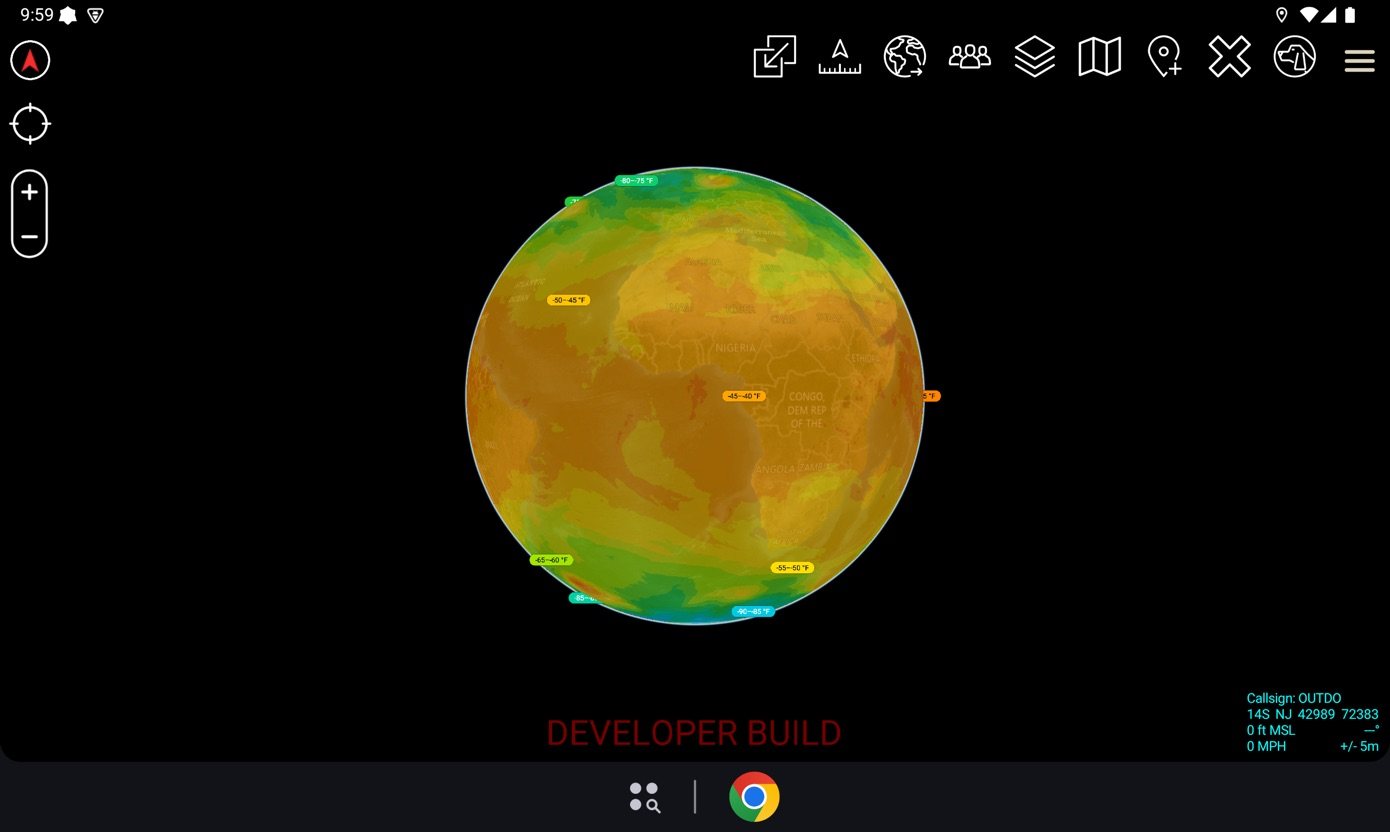
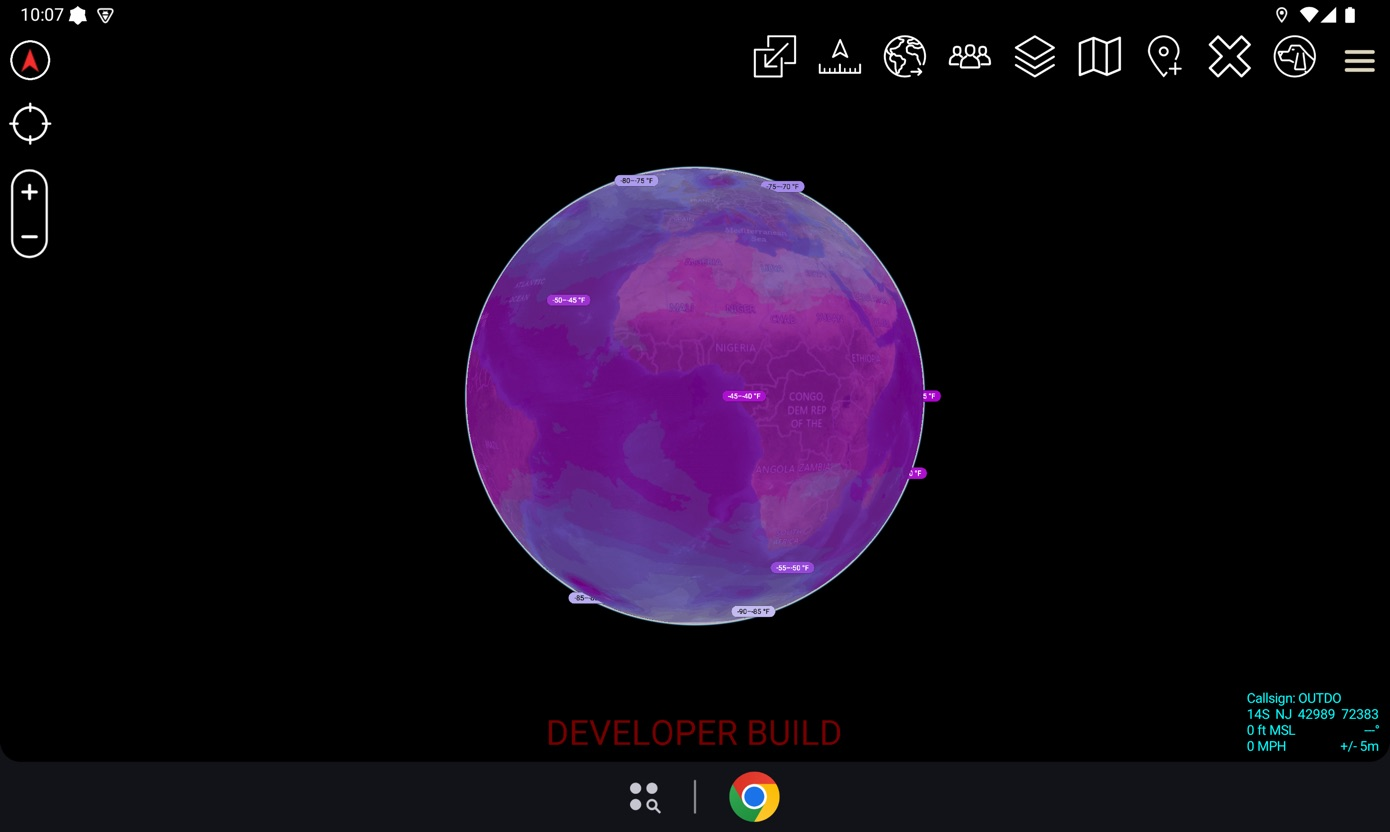
Air Temperature: the cold end lightens to white, no sliding scale
The sliding scale made 34,000 ft look like a ground map, and the cold
lost its identity (operator, 2026-11-12: "I preferred the purple - white
for the super cold range, it made it distinct from the temperate
colors"). So the scale is one scale again, and below the purple it
lightens every five degrees, violet, lavender, lilac to white at -80 °C:
the bands aloft still step, and cold reads as cold.

Changed region(s): [[0.3094, 0.1875, 0.6806, 0.75], [0.0, 0.0, 0.0928, 0.0312]]

diff --git a/app/src/main/java/com/atakmap/android/atmosphere/rain/NomadsTemperature.java b/app/src/main/java/com/atakmap/android/atmosphere/rain/NomadsTemperature.java
@@ -11,17 +11,19 @@ public final class NomadsTemperature {
      * The broadcast weather map's scale: purple through blue, cyan, green, yellow,
      * orange and red to magenta, saturated and nearly opaque, so the bands read from
      * across a room (operator, 2026-11-12: "the 90's weather report look"). Below
-     * the purple the scale keeps changing hue every five degrees, magenta, pink,
-     * white, then steel to slate, because at 34,000 ft the whole sky is colder than
-     * -40 and was one purple (operator, the same day: "we lose differentiation in
-     * color at higher altitudes"); the aloft charts reuse colors the same way. Stops
-     * in °C; the gradient between them is read at each band's middle.
+     * the purple the scale lightens every five degrees, violet, lavender, lilac to
+     * white at -80: at 34,000 ft the whole sky is colder than -40 and was one
+     * purple (operator, the same day: "we lose differentiation in color at higher
+     * altitudes"), and the cold stays its own family rather than borrowing the
+     * temperate hues, so cold reads as cold (operator: "it made it distinct from the
+     * temperate colors"). Stops in °C; the gradient between them is read at each
+     * band's middle.
      */
     private static final float[] STOPS = { -80, -75, -70, -65, -60, -55, -50, -45, -40, -30, -20,
             -10, 0, 5, 10, 15, 20, 25, 30, 35, 40, 45 };
     private static final int[] COLORS = {
-            0xC8323C50, 0xC85A6E82, 0xC88CA0B4, 0xC8C8D2E6, 0xC8FFFFFF, 0xC8FFB4DC, 0xC8FF64C8,
-            0xC8E000E0,
+            0xC8FFFFFF, 0xC8E6E6FA, 0xC8D2CDF5, 0xC8BEB4F0, 0xC8AA96EC, 0xC89678E6, 0xC88C5AE0,
+            0xC89A3CD2,
             0xC8B000C8, 0xC87B1FE0, 0xC81E3CFF, 0xC80A78FF, 0xC800C8FF, 0xC800D28C, 0xC828C832,
             0xC8A0E600, 0xC8FFE600, 0xC8FFB400, 0xC8FF7800, 0xC8FF3C00, 0xC8E00000, 0xC8B40064 };
 
@@ -55,21 +57,6 @@ public final class NomadsTemperature {
     /** The filter's name for a rung: the ground is the 2 m temperature. */
     public static String levelParam(NomadsWind.Level level) {
         return level.surface ? "lev_2_m_above_ground" : level.param;
-    }
-
-    /**
-     * How far the scale slides for a height, °C: the standard atmosphere's drop
-     * from the ground to there (6.5 °C a kilometer, to the tropopause), so the
-     * typical temperature at every height lands on the same color 15 °C does at
-     * the ground. Aloft the whole sky is colder than -40, and on the ground's
-     * scale it was one purple (operator, 2026-11-12); the aloft charts a pilot
-     * reads each carry their own scale, and this is that. The bands and their
-     * labels are still the real temperature; only the color slides.
-     */
-    public static float scaleShift(NomadsWind.Level level) {
-        if (level == null || level.surface)
-            return 0f;
-        return Math.min(level.approxMeters, 11_000) * 0.0065f;
     }
 
     public static String url(long run, int hour, double west, double south, double east, double north,
@@ -143,15 +130,10 @@ public final class NomadsTemperature {
      * so every point in one band is one color and the bands step rather than blend.
      */
     public static int bandColor(float celsius, boolean fahrenheit) {
-        return bandColor(celsius, fahrenheit, 0f);
-    }
-
-    /** The band's color on a scale slid up by {@code shift} °C; see {@link #scaleShift}. */
-    public static int bandColor(float celsius, boolean fahrenheit, float shift) {
         final float floor = bandFloor(celsius, fahrenheit);
         if (Float.isNaN(floor))
             return 0;
-        return color(toCelsius(floor + BAND_DEGREES / 2f, fahrenheit) + shift);
+        return color(toCelsius(floor + BAND_DEGREES / 2f, fahrenheit));
     }
 
     /**
@@ -182,26 +164,18 @@ public final class NomadsTemperature {
 
     /** One opaque color per band in {@code edges}, for the legend bar. */
     public static int[] bandColors(float[] edges, boolean fahrenheit) {
-        return bandColors(edges, fahrenheit, 0f);
-    }
-
-    public static int[] bandColors(float[] edges, boolean fahrenheit, float shift) {
         final int[] out = new int[edges.length];
         for (int i = 0; i < edges.length; i++)
-            out[i] = color(toCelsius(edges[i] + BAND_DEGREES / 2f, fahrenheit) + shift) | 0xff000000;
+            out[i] = color(toCelsius(edges[i] + BAND_DEGREES / 2f, fahrenheit)) | 0xff000000;
         return out;
     }
 
     public static int[] render(RainGrid grid, int width, int height) {
-        return render(grid, width, height, false, 0f);
+        return render(grid, width, height, false);
     }
 
+    /** The picture in five-degree steps of the unit shown; see {@link #bandColor}. */
     public static int[] render(RainGrid grid, int width, int height, boolean fahrenheit) {
-        return render(grid, width, height, fahrenheit, 0f);
-    }
-
-    /** The picture in five-degree steps of the unit shown, on a scale slid by {@code shift}; see {@link #bandColor}. */
-    public static int[] render(RainGrid grid, int width, int height, boolean fahrenheit, float shift) {
         final int[] pixels = new int[width * height];
         final double deltaLon = (grid.east - grid.west) / width;
         final double deltaLat = (grid.north - grid.south) / height;
@@ -209,7 +183,7 @@ public final class NomadsTemperature {
             final double lat = grid.north - (row + 0.5) * deltaLat;
             for (int column = 0; column < width; column++)
                 pixels[row * width + column] = bandColor(
-                        grid.sample(lat, grid.west + (column + 0.5) * deltaLon), fahrenheit, shift);
+                        grid.sample(lat, grid.west + (column + 0.5) * deltaLon), fahrenheit);
         }
         return pixels;
     }

diff --git a/app/src/main/java/com/atakmap/android/atmosphere/overlay/RainOverlay.java b/app/src/main/java/com/atakmap/android/atmosphere/overlay/RainOverlay.java
@@ -335,8 +335,7 @@ public final class RainOverlay {
         final int maxPx = temperature ? MAX_PX_TEMPERATURE : MAX_PX;
         final int pw = Math.max(64, Math.min(maxPx, g.nx * PX_PER_CELL));
         final int ph = Math.max(64, Math.min(maxPx, g.ny * PX_PER_CELL));
-        final int[] px = temperature
-                ? NomadsTemperature.render(g, pw, ph, fahrenheit, NomadsTemperature.scaleShift(level))
+        final int[] px = temperature ? NomadsTemperature.render(g, pw, ph, fahrenheit)
                 : NomadsRain.render(g, pw, ph);
         Log.d(TAG, String.format(Locale.US, "drawn %dx%d over %.2f,%.2f..%.2f,%.2f, %s",
                 pw, ph, g.west, g.south, g.east, g.north,
@@ -767,8 +766,7 @@ public final class RainOverlay {
                 for (BandLabels.Label l : placed) {
                     final String text = BandLabels.text(l.floor, fahrenheit);
                     final int fill = NomadsTemperature.bandColor(
-                            NomadsTemperature.toCelsius(l.floor + 1f, fahrenheit), fahrenheit,
-                            NomadsTemperature.scaleShift(level));
+                            NomadsTemperature.toCelsius(l.floor + 1f, fahrenheit), fahrenheit);
                     final ZonePills.Pill pill = pills.pill(text, textOn(fill), fill);
                     if (pill == null)
                         continue;

diff --git a/app/src/test/java/com/atakmap/android/atmosphere/TemperatureTest.java b/app/src/test/java/com/atakmap/android/atmosphere/TemperatureTest.java
@@ -34,14 +34,6 @@ public class TemperatureTest {
                 NomadsTemperature.LEVELS[0]);
         for (com.atakmap.android.atmosphere.wind.NomadsWind.Level l : NomadsTemperature.LEVELS)
             assertTrue(l.name(), l != com.atakmap.android.atmosphere.wind.NomadsWind.Level.AGL_80);
-        // The scale slides with height by the standard lapse, so the typical
-        // temperature aloft takes the color the typical ground temperature does.
-        assertEquals(0f, NomadsTemperature.scaleShift(com.atakmap.android.atmosphere.wind.NomadsWind.Level.AGL_10), 0f);
-        assertEquals(1500 * 0.0065f, NomadsTemperature.scaleShift(com.atakmap.android.atmosphere.wind.NomadsWind.Level.MB_850), 0.001f);
-        final float aloft = NomadsTemperature.scaleShift(com.atakmap.android.atmosphere.wind.NomadsWind.Level.MB_250);
-        assertTrue(aloft > 60 && aloft < 75);
-        assertNotEquals(NomadsTemperature.bandColor(-52f, false), NomadsTemperature.bandColor(-52f, false, aloft));
-        assertNotEquals(NomadsTemperature.bandColor(-50f, false, aloft), NomadsTemperature.bandColor(-55f, false, aloft));
     }
 
     @Test

diff --git a/app/src/main/java/com/atakmap/android/atmosphere/ui/AtmospherePane.java b/app/src/main/java/com/atakmap/android/atmosphere/ui/AtmospherePane.java
@@ -2463,8 +2463,7 @@ public final class AtmospherePane {
         for (int i = 0; i < joins.length; i++)
             joins[i] = edges[i + 1];
         temperatureScale.setBands(
-                com.atakmap.android.atmosphere.rain.NomadsTemperature.bandColors(edges, fahrenheit,
-                        com.atakmap.android.atmosphere.rain.NomadsTemperature.scaleShift(temperature.level())),
+                com.atakmap.android.atmosphere.rain.NomadsTemperature.bandColors(edges, fahrenheit),
                 joins, fahrenheit ? "°F" : "°C");
         temperatureScale.setEnds(null, null);
     }
